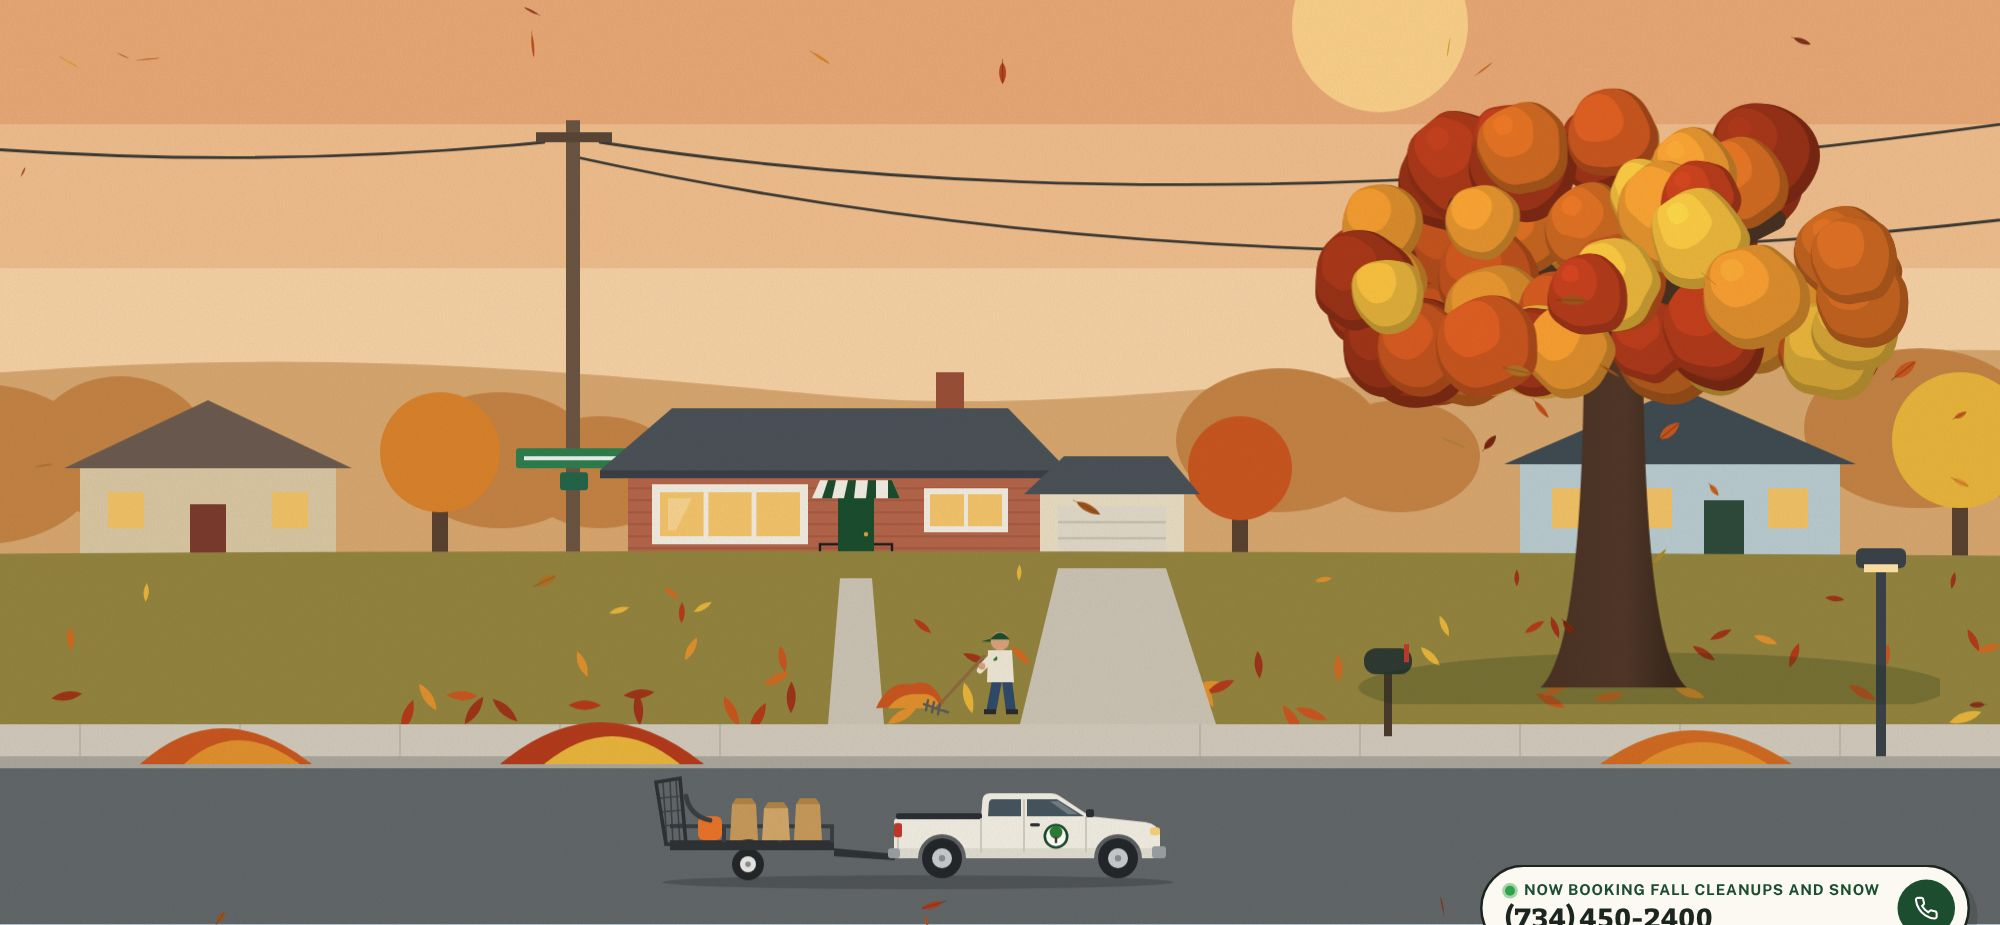
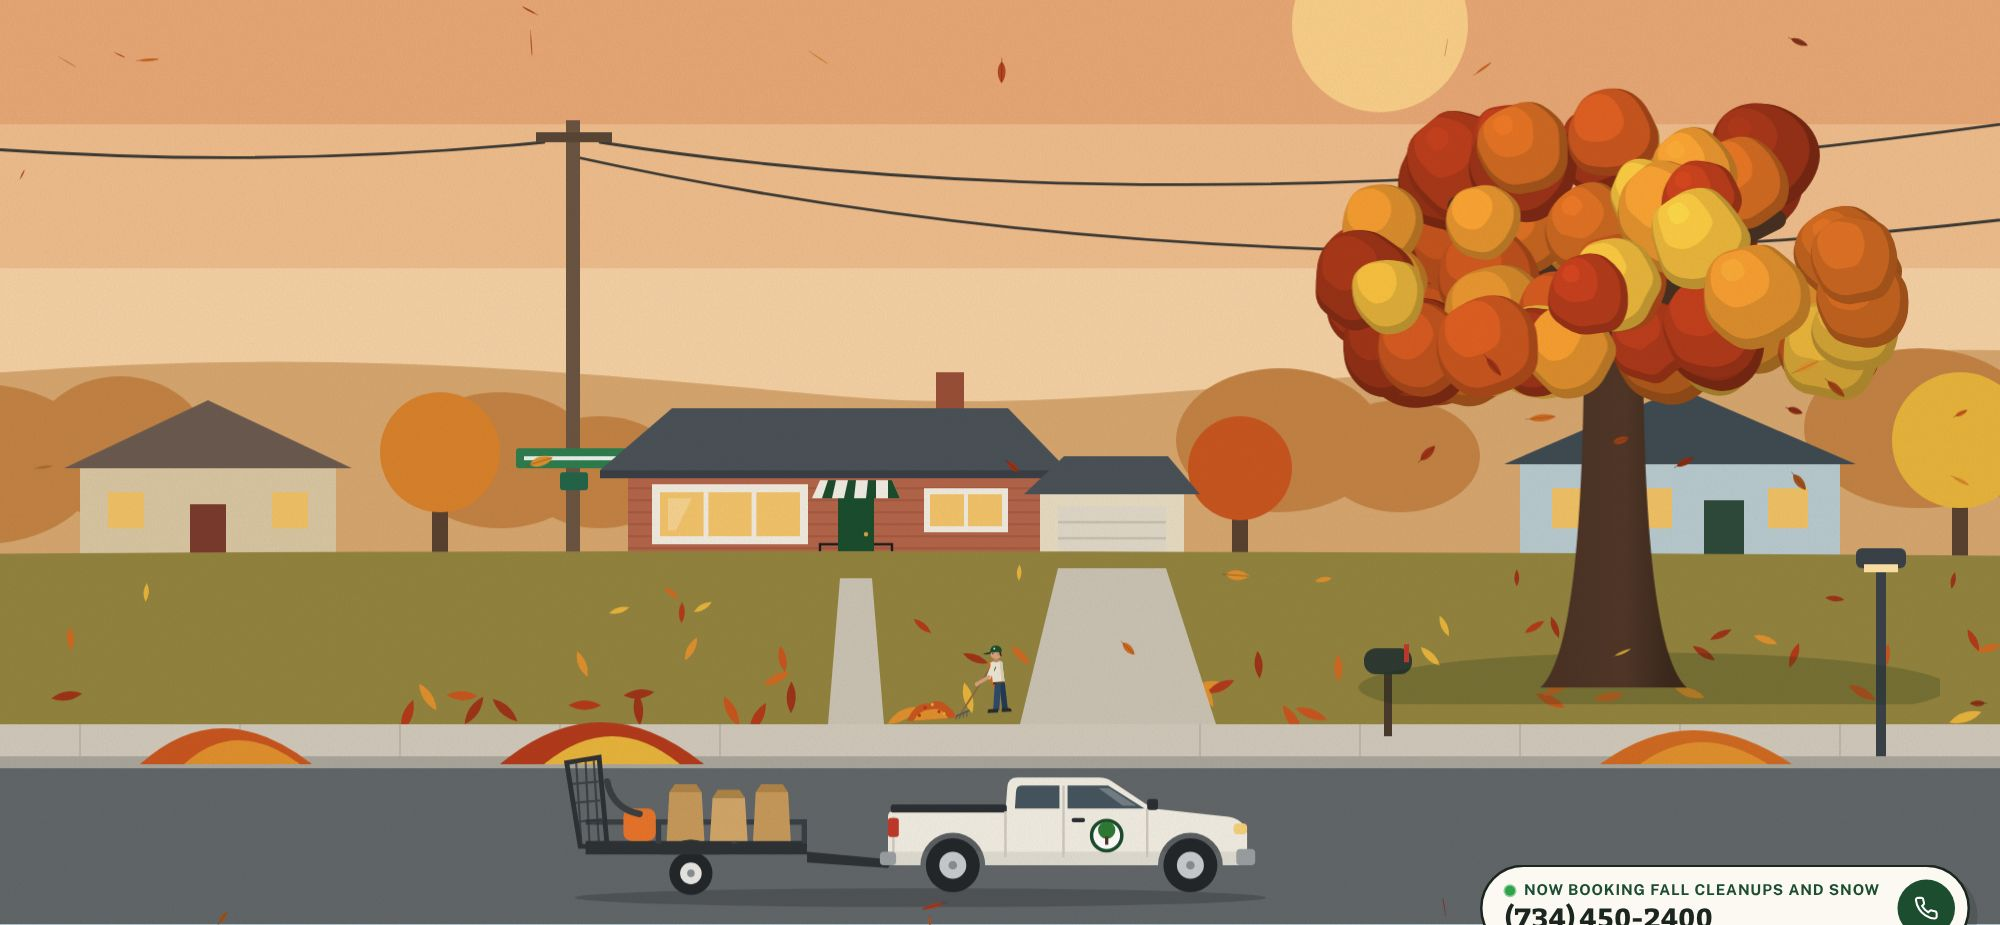
Bigger foreground truck; redrawn crew figures with real poses (mowing, raking, snowblowing)
Claude-Session: https://claude.ai/code/session_01JxTZoSVWQRYRVjVdmoWZGN

diff --git a/preview/index.html b/preview/index.html
@@ -146,50 +146,9 @@
 
       <!-- a brother at work: mowing in summer, raking in fall, snowblowing in winter -->
       <g id="crew">
-        <g data-op="1,0,0" transform="translate(-72 0)">
-          <path d="M414 580 L440 579 L441 588 L413 589Z" fill="#C8372D"/><rect x="420" y="573" width="12" height="7" rx="1" fill="#2B2B2B"/>
-          <circle cx="417" cy="589" r="3" fill="#23272A"/><circle cx="437" cy="589" r="3" fill="#23272A"/>
-          <path d="M440 581 L447 567" stroke="#2B2B2B" stroke-width="1.6" stroke-linecap="round"/>
-          <g transform="translate(456 590)">
-          <path d="M1 -16 L6 -16 L8 0 L3 0Z M-4 -16 L1 -16 L-2 0 L-7 0Z" fill="#2F4A6B"/>
-          <path d="M-8 -1.5 h6 v2.5 h-6Z M3 -1.5 h6 v2.5 h-6Z" fill="#2B2B2B"/>
-          <path d="M-6 -31 L6 -31 L7 -15 L-6.5 -15Z" data-fill="#EEE7D7,#EEE7D7,#2E5E3E" fill="#EEE7D7"/>
-          <circle cx="-2.6" cy="-27" r="1.3" fill="#2F7A35"/>
-          <path d="M-4 -29 L-9 -22" stroke="#EEE7D7" stroke-width="3.4" stroke-linecap="round"/><circle cx="-9.5" cy="-21.5" r="1.8" fill="#D9A27E"/>
-          <circle cy="-35.5" r="4.6" fill="#D9A27E"/>
-          <path d="M-4.9 -36.4 Q0 -43 4.9 -36.4Z M-4.9 -36.6 L-9.5 -35.4 L-4.6 -35.2Z" fill="#1B4D2E"/>
-        </g>
-        </g>
-        <g data-op="0,1,0" opacity="0" transform="translate(40 0)">
-          <path d="M398 592 Q404 578 416 580 Q426 576 432 590Z" fill="#C9561F"/><path d="M404 592 Q410 584 420 585 Q428 584 430 592Z" fill="#E1912E"/>
-          <path d="M452 566 L428 592" stroke="#8B6A42" stroke-width="1.6" stroke-linecap="round"/><path d="M422 590 L434 594 M424 588 L423 593 M427 589 L426 594 M430 590 L429 595" stroke="#5A5A5A" stroke-width="1.2" stroke-linecap="round"/>
-          <g transform="translate(460 594)">
-          <path d="M1 -16 L6 -16 L8 0 L3 0Z M-4 -16 L1 -16 L-2 0 L-7 0Z" fill="#2F4A6B"/>
-          <path d="M-8 -1.5 h6 v2.5 h-6Z M3 -1.5 h6 v2.5 h-6Z" fill="#2B2B2B"/>
-          <path d="M-6 -31 L6 -31 L7 -15 L-6.5 -15Z" data-fill="#EEE7D7,#EEE7D7,#2E5E3E" fill="#EEE7D7"/>
-          <circle cx="-2.6" cy="-27" r="1.3" fill="#2F7A35"/>
-          <path d="M-3 -29 L-8 -24 M-5 -26 L-10 -21" stroke="#EEE7D7" stroke-width="3.2" stroke-linecap="round"/><circle cx="-9" cy="-23" r="1.7" fill="#D9A27E"/>
-          <circle cy="-35.5" r="4.6" fill="#D9A27E"/>
-          <path d="M-4.9 -36.4 Q0 -43 4.9 -36.4Z M-4.9 -36.6 L-9.5 -35.4 L-4.6 -35.2Z" fill="#1B4D2E"/>
-        </g>
-        </g>
-        <g data-op="0,0,1" opacity="0">
-          <path d="M531 582 Q546 560 568 566" stroke="#FFFFFF" stroke-width="5" fill="none" stroke-linecap="round" opacity=".85"/>
-          <g fill="#FFFFFF"><circle cx="560" cy="560" r="2"/><circle cx="572" cy="566" r="1.6"/><circle cx="566" cy="556" r="1.4"/><circle cx="578" cy="571" r="1.6"/></g>
-          <path d="M530 594 L530 580 Q530 576 536 576 L546 576 L546 594Z" fill="#C8372D"/><rect x="546" y="582" width="12" height="10" rx="1.5" fill="#B5302A"/>
-          <path d="M536 576 L534 566 L540 563" stroke="#2B2B2B" stroke-width="1.8" fill="none" stroke-linecap="round"/>
-          <circle cx="552" cy="595" r="3.4" fill="#23272A"/>
-          <path d="M558 584 L566 571" stroke="#2B2B2B" stroke-width="1.6" stroke-linecap="round"/>
-          <g transform="translate(574 597)">
-          <path d="M1 -16 L6 -16 L8 0 L3 0Z M-4 -16 L1 -16 L-2 0 L-7 0Z" fill="#2F4A6B"/>
-          <path d="M-8 -1.5 h6 v2.5 h-6Z M3 -1.5 h6 v2.5 h-6Z" fill="#2B2B2B"/>
-          <path d="M-6 -31 L6 -31 L7 -15 L-6.5 -15Z" data-fill="#EEE7D7,#EEE7D7,#2E5E3E" fill="#EEE7D7"/>
-          <circle cx="-2.6" cy="-27" r="1.3" fill="#2F7A35"/>
-          <path d="M-4 -29 L-8 -25" stroke="#2E5E3E" stroke-width="3.4" stroke-linecap="round"/><circle cx="-8.3" cy="-24.6" r="1.8" fill="#D9A27E"/>
-          <circle cy="-35.5" r="4.6" fill="#D9A27E"/>
-          <path d="M-4.9 -36.4 Q0 -43 4.9 -36.4Z M-4.9 -36.6 L-9.5 -35.4 L-4.6 -35.2Z" fill="#1B4D2E"/>
-        </g>
-        </g>
+        <g data-op="1,0,0"><g transform="translate(496 592) scale(0.31)"><path d="M6 -79 L-6 -64" stroke="#D9CFBA" stroke-width="7.5" stroke-linecap="round"/><path d="M-6 -64 L-21 -56" stroke="#C08566" stroke-width="5.5" stroke-linecap="round"/><circle cx="-21" cy="-56" r="3.4" fill="#C08566"/><path d="M2 -48 L11 -48 L19 -3 L10 -2Z" fill="#243A55"/><path d="M-5 -48 L6 -48 L-3 -2 L-13 -3Z" fill="#2F4A6B"/><path d="M9 -6 H21 Q26 -6 26 0 H9Z M-20 -6 H-6 V0 H-23 Q-23 -6 -20 -6Z" fill="#2B2B2B"/><path d="M-10 -81 Q-1 -85 9 -82 L11 -47 L-8 -46Z" fill="#EEE7D7"/><path d="M5 -82 Q8 -82 9 -82 L11 -47 L6 -47Z" fill="#D9CFBA"/><rect x="-8" y="-49" width="19" height="3.4" fill="#4A3A2E"/><circle cx="-4" cy="-72" r="2.8" fill="#2F7A35"/><rect x="-4.6" y="-70" width="1.2" height="3" fill="#4A3426"/><rect x="-3.5" y="-89" width="7" height="8" fill="#C08566"/><circle cx="0" cy="-95" r="9" fill="#D9A27E"/><circle cx="4.5" cy="-94" r="2.2" fill="#C08566"/><path d="M3 -101 Q10 -100 9 -90 L6 -91 Q7 -97 3 -98Z" fill="#3A2A20"/><circle cx="-5" cy="-95" r="1" fill="#2B2B2B"/><path d="M-9.5 -97 Q-9 -108 1 -108 Q10.5 -107 10 -97Z" fill="#1B4D2E"/><path d="M-9 -98 L-21 -96 Q-17 -93.5 -8 -95Z" fill="#143B23"/><circle cx="-2" cy="-103" r="1.6" fill="#EEE7D7"/><path d="M-44 -14 L-27 -57" stroke="#2B2B2B" stroke-width="3" stroke-linecap="round"/><path d="M-30 -58 L-24 -56" stroke="#2B2B2B" stroke-width="4" stroke-linecap="round"/><path d="M-88 -17 L-43 -17 L-40 -5 L-90 -5Z" fill="#C8372D"/><path d="M-88 -17 L-43 -17 L-43 -14 L-88 -14Z" fill="#E0493D"/><rect x="-77" y="-31" width="22" height="14" rx="2" fill="#2B2B2B"/><rect x="-72" y="-35" width="8" height="4" rx="1.5" fill="#3A3A3A"/><circle cx="-83" cy="-5" r="6" fill="#23272A"/><circle cx="-83" cy="-5" r="2.4" fill="#9AA0A4"/><circle cx="-48" cy="-5" r="6" fill="#23272A"/><circle cx="-48" cy="-5" r="2.4" fill="#9AA0A4"/><path d="M-5 -78 L-14 -66" stroke="#EEE7D7" stroke-width="7.5" stroke-linecap="round"/><path d="M-14 -66 L-27 -58" stroke="#D9A27E" stroke-width="5.5" stroke-linecap="round"/><circle cx="-27" cy="-58" r="3.4" fill="#D9A27E"/></g></g>
+        <g data-op="0,1,0" opacity="0"><g transform="translate(500 594) scale(0.31)"><g transform="rotate(-4)"><path d="M-150 4 Q-138 -26 -112 -22 Q-96 -32 -80 -12 Q-72 -6 -72 4Z" fill="#C9561F"/><path d="M-140 4 Q-128 -14 -110 -12 Q-94 -16 -84 4Z" fill="#E1912E"/><g fill="#B33B1B"><circle cx="-120" cy="-16" r="3"/><circle cx="-98" cy="-8" r="2.6"/><circle cx="-130" cy="-4" r="2.6"/></g><g fill="#E8B53C"><circle cx="-108" cy="-20" r="2.4"/><circle cx="-90" cy="-4" r="2.2"/></g><path d="M6 -78 L-4 -66" stroke="#D9CFBA" stroke-width="7.5" stroke-linecap="round"/><path d="M-4 -66 L-14 -62" stroke="#C08566" stroke-width="5.5" stroke-linecap="round"/><circle cx="-14" cy="-62" r="3.4" fill="#C08566"/><path d="M2 -48 L11 -48 L13 -3 L4 -3Z" fill="#243A55"/><path d="M-5 -48 L5 -48 L-1 -3 L-11 -3Z" fill="#2F4A6B"/><path d="M3 -6 H14 Q19 -6 19 0 H3Z M-17 -6 H-3 V0 H-20 Q-20 -6 -17 -6Z" fill="#2B2B2B"/><path d="M-6 -78 L-62 -4" stroke="#8B6A42" stroke-width="3" stroke-linecap="round"/><path d="M-70 1 L-50 -6" stroke="#5A5A5A" stroke-width="3" stroke-linecap="round"/><path d="M-68 0 L-72 6 M-63 -1.5 L-66 5 M-58 -3 L-60 4 M-53 -4.5 L-54 3" stroke="#5A5A5A" stroke-width="1.6" stroke-linecap="round"/><path d="M-10 -81 Q-1 -85 9 -82 L11 -47 L-8 -46Z" fill="#EEE7D7"/><path d="M5 -82 Q8 -82 9 -82 L11 -47 L6 -47Z" fill="#D9CFBA"/><rect x="-8" y="-49" width="19" height="3.4" fill="#4A3A2E"/><circle cx="-4" cy="-72" r="2.8" fill="#2F7A35"/><rect x="-4.6" y="-70" width="1.2" height="3" fill="#4A3426"/><rect x="-3.5" y="-89" width="7" height="8" fill="#C08566"/><circle cx="0" cy="-95" r="9" fill="#D9A27E"/><circle cx="4.5" cy="-94" r="2.2" fill="#C08566"/><path d="M3 -101 Q10 -100 9 -90 L6 -91 Q7 -97 3 -98Z" fill="#3A2A20"/><circle cx="-5" cy="-95" r="1" fill="#2B2B2B"/><path d="M-9.5 -97 Q-9 -108 1 -108 Q10.5 -107 10 -97Z" fill="#1B4D2E"/><path d="M-9 -98 L-21 -96 Q-17 -93.5 -8 -95Z" fill="#143B23"/><circle cx="-2" cy="-103" r="1.6" fill="#EEE7D7"/><path d="M-5 -77 L-14 -58" stroke="#EEE7D7" stroke-width="7.5" stroke-linecap="round"/><path d="M-14 -58 L-34 -48" stroke="#D9A27E" stroke-width="5.5" stroke-linecap="round"/><circle cx="-34" cy="-48" r="3.4" fill="#D9A27E"/></g></g></g>
+        <g data-op="0,0,1" opacity="0"><g transform="translate(578 597) scale(0.31)"><path d="M-130 -40 Q-150 -76 -110 -96" stroke="#FFFFFF" stroke-width="12" fill="none" stroke-linecap="round" opacity=".85"/><g fill="#FFFFFF"><circle cx="-100" cy="-104" r="4"/><circle cx="-88" cy="-96" r="3"/><circle cx="-94" cy="-114" r="2.6"/><circle cx="-80" cy="-108" r="2.2"/></g><path d="M-118 0 L-118 -30 Q-118 -38 -108 -38 L-86 -38 L-86 0Z" fill="#C8372D"/><path d="M-118 0 L-118 -10 L-86 -10 L-86 0Z" fill="#93261F"/><rect x="-86" y="-26" width="28" height="22" rx="3" fill="#B5302A"/><rect x="-80" y="-34" width="14" height="8" rx="2" fill="#2B2B2B"/><path d="M-106 -38 L-110 -58 L-98 -64" stroke="#2B2B2B" stroke-width="4" fill="none" stroke-linecap="round"/><circle cx="-70" cy="-3" r="7" fill="#23272A"/><path d="M-60 -20 L-30 -58" stroke="#2B2B2B" stroke-width="3" stroke-linecap="round"/><path d="M6 -79 L-6 -66" stroke="#244B32" stroke-width="7.5" stroke-linecap="round"/><path d="M-6 -66 L-23 -58" stroke="#244B32" stroke-width="5.5" stroke-linecap="round"/><circle cx="-23" cy="-58" r="3.4" fill="#1E1E1E"/><path d="M2 -48 L11 -48 L19 -3 L10 -2Z" fill="#243A55"/><path d="M-5 -48 L6 -48 L-3 -2 L-13 -3Z" fill="#2F4A6B"/><path d="M9 -6 H21 Q26 -6 26 0 H9Z M-20 -6 H-6 V0 H-23 Q-23 -6 -20 -6Z" fill="#2B2B2B"/><path d="M-10 -81 Q-1 -85 9 -82 L11 -47 L-8 -46Z" fill="#2E5E3E"/><path d="M5 -82 Q8 -82 9 -82 L11 -47 L6 -47Z" fill="#244B32"/><rect x="-8" y="-49" width="19" height="3.4" fill="#4A3A2E"/><rect x="-6" y="-75" width="6" height="2.2" fill="#EEE7D7" opacity=".9"/><rect x="-3.5" y="-89" width="7" height="8" fill="#C08566"/><circle cx="0" cy="-95" r="9" fill="#D9A27E"/><circle cx="4.5" cy="-94" r="2.2" fill="#C08566"/><path d="M3 -101 Q10 -100 9 -90 L6 -91 Q7 -97 3 -98Z" fill="#3A2A20"/><circle cx="-5" cy="-95" r="1" fill="#2B2B2B"/><path d="M-9.5 -96 Q-9 -110 0.5 -110 Q10 -110 10 -96Z" fill="#B5302A"/><rect x="-10.5" y="-99" width="21" height="5" rx="2" fill="#93261F"/><circle cx="0.5" cy="-111" r="2.6" fill="#EEE7D7"/><path d="M-5 -78 L-14 -66" stroke="#2E5E3E" stroke-width="7.5" stroke-linecap="round"/><path d="M-14 -66 L-29 -60" stroke="#2E5E3E" stroke-width="5.5" stroke-linecap="round"/><circle cx="-29" cy="-60" r="3.4" fill="#1E1E1E"/></g></g>
       </g>
 
       <!-- leaf piles at the curb for city pickup -->
@@ -204,7 +163,7 @@
       <g><rect x="938" y="520" width="5" height="96" fill="#3A4249"/><rect x="928" y="512" width="25" height="10" rx="3" fill="#3A4249"/><rect x="932" y="520" width="17" height="4" data-fill="#F4F1E6,#FFE3A8,#FFE7A8" fill="#F4F1E6"/></g>
 
       <!-- the work truck and trailer: compact white extended-cab pickup, open single-axle utility trailer -->
-      <g id="rig" transform="translate(911 0) scale(-1 1)">
+      <g id="rig" transform="translate(1070.4 -229.95) scale(-1.35 1.35)">
         <ellipse cx="452" cy="679" rx="128" ry="3.5" fill="#000000" opacity=".18"/>
         <!-- trailer -->
         <path d="M462 665 L494 662 L494 666 L464 668Z" fill="#2E3236"/>
